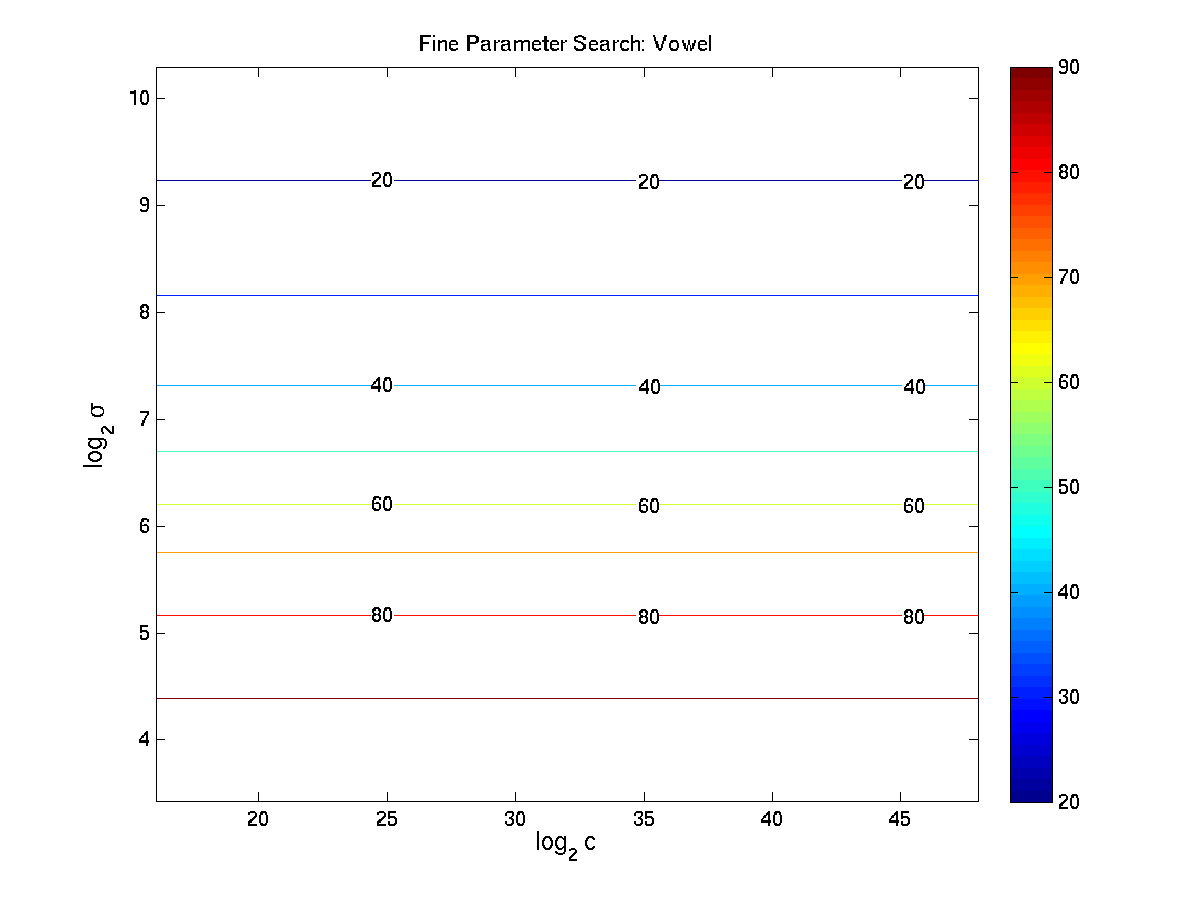
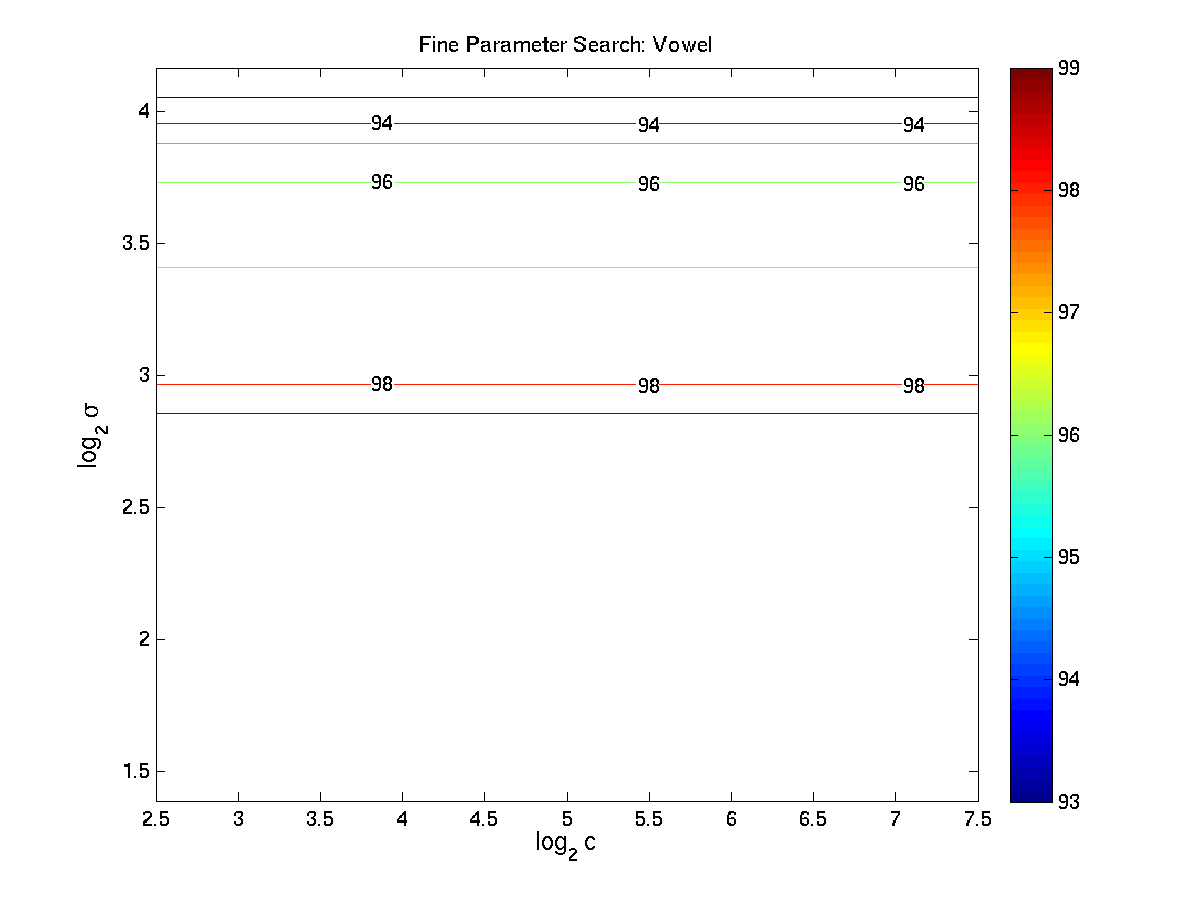
Fixed the bug in Part1

diff --git a/CS-528/Project4-SVM/Part1.m b/CS-528/Project4-SVM/Part1.m
@@ -4,13 +4,12 @@
 % Using LibSVM to find ideal C and gamma values
 SVMMatlabSetup
 ProjectSetup
-f = fopen('GridSearchOutput.txt','w');
+f = fopen('CoarseGridSearchOutput.dat','w');
 
 %% Corse Grid Search
 n  = 10;
-fprintf(f,'Coarse Grid Search with %d values\n',n^2);
-fprintf(f,'Coarse Grid Search\n');
-fprintf(f,'\t\t\tDataSet\t\t\t\tminC\tmaxC\tminG\tmaxGAccuracy\tg\t\tc\n');
+fprintf(f,'Data Set & $C_{min}$ & $C_{max}$ & $\\sigma_{min}$ & $\\sigma_{max}$ & $C$ & $\\sigma$ & $\\epsilon$ \\\\ \n');
+fprintf(f,'\\hline\n');
 c_coarse = zeros(size(dataSets));
 g_coarse = zeros(size(dataSets));
 i = 1;
@@ -26,8 +25,8 @@ for data = dataSets
   
     
     % Writing the values
-    fprintf(f,'%s\t%5.3e\t%5.3e\t%5.3e\t%5.3e\t%5.3e\t%5.3e\t%5.3e\n',...
-        setNames{i},min(c),max(c),min(g),max(g),cv,c_coarse(i),g_coarse(i));
+    fprintf(f,'%s & %3.2f & %3.2f & %3.2f & %3.2f & %3.2f & %3.2f & %3.2f \\\\ \n',...
+        setNames{i},min(c),max(c),min(g),max(g),c_coarse(i),g_coarse(i),cv);
     
     % Save the figure
     title(sprintf('Coarse Parameter Search: %s',setNames{i}));
@@ -36,14 +35,16 @@ for data = dataSets
     
     i = i + 1;
 end
+fclose(f);
 
 %% Fine Grid Search
+f = fopen('FineGridSearchOutput.dat','w');
 c_fine = zeros(size(dataSets));
 g_fine = zeros(size(dataSets));
 i = 1;
-n  = 10;
-fprintf(f,'\nFine Grid Search with %d values\n',n^2);
-fprintf(f,'\t\t\tDataSet\t\t\t\tminC\tmaxC\tminG\tmaxGAccuracy\tg\t\tc\n');
+n  = 20;
+fprintf(f,'Data Set & $C_{min}$ & $C_{max}$ & $\\sigma_{min}$ & $\\sigma_{max}$ & $C$ & $\\sigma$ & $\\epsilon$ \\\\ \n');
+fprintf(f,'\\hline\n');
 for data = dataSets
     fprintf(1,'Processing data set: %s\n',cell2mat(dataSets(i)));
     % Reading in the data
@@ -56,8 +57,9 @@ for data = dataSets
     [cv,c_fine(i),g_fine(i)] = gridParam(c,g,label,inst);
     
     % Writing the values
-    fprintf(f,'%s\t%5.3e\t%5.3e\t%5.3e\t%5.3e\t%5.3e\t%5.3e\t%5.3e\n',...
-        setNames{i},min(c),max(c),min(g),max(g),cv,c_fine(i),g_fine(i));
+
+    fprintf(f,'%s & %3.2f & %3.2f & %3.2f & %3.2f & %3.2f & %3.2f & %3.2f \\\\ \n',...
+        setNames{i},min(c),max(c),min(g),max(g),c_fine(i),g_fine(i),cv);
     
     % Save the figure
     title(sprintf('Fine Parameter Search: %s',setNames{i}));
@@ -65,6 +67,5 @@ for data = dataSets
     print(gcf,'-dpng',filename);
     i = i + 1;
 end
-
-%% Probably need to do validation
 fclose(f);
+%% Probably need to do validation

diff --git a/CS-528/Project4-SVM/writeup/Results.tex b/CS-528/Project4-SVM/writeup/Results.tex
@@ -6,29 +6,28 @@
 The parameter search for the optimal C and $\sigma$ parameters is shown in the contour plots of Figures \ref{fig:ParamLiver}, \ref{fig:ParamGlass} and \ref{fig:ParamGlass}.
 The optimal classifier parameters are shown for the coarse parameter search in Table \ref{tab:CoarseParamValues} and for the fine parameter search in Table \ref{tab:FineParamValues}.
 \todo{Make some quantifications and discuss the data}
-\begin{table}[ht!]
+\begin{table}[h!]
 \caption{Coarse Optimal Classifier Parameters}
 \label{tab:CoarseParamValues}
 \begin{tabular}{c c c c c c c c}
 \hline
-Data Set & $C_{min}$ & $C_{max}$ & $\sigma_{min}$ & $\sigma_{max}$ & $C$ & $\sigma$ & $\epsilon$ \\
+Data Set & $C_{min}$ & $C_{max}$ & $\sigma_{min}$ & $\sigma_{max}$ & $C$ & $\sigma$ & $\epsilon$ \\ 
 \hline
-Glass &	-5.0 &  5.0 &	-5.0 &	5.0 & 32.0 &	1.47 & 73 \\
-Liver &	-5.0 &	5.0 &	-5.0 &	5.0 & 14.8 &	0.146 & 74 \\
-Vowel &	-5.0 &	5.0 &	-5.0 &	5.0 & 32.0 &	6.85  & 99 \\
+Glass & -5.00 & 5.00 & -5.00 & 5.00 & 5.00 & 0.56 & 72.78 \\ 
+Liver & -5.00 & 5.00 & -5.00 & 5.00 & 3.89 & -2.78 & 74.33 \\ 
+Vowel & -5.00 & 5.00 & -5.00 & 5.00 & 5.00 & 2.78 & 99.24 \\ 
 \hline
 \end{tabular}
 \end{table}
-\begin{table}[ht!]
+\begin{table}[ht]
 \caption{Fine Optimal Classifier Parameters}
 \label{tab:FineParamValues}
 \begin{tabular}{c c c c c c c c}
+Data Set & $C_{min}$ & $C_{max}$ & $\sigma_{min}$ & $\sigma_{max}$ & $C$ & $\sigma$ & $\epsilon$ \\ 
 \hline
-Data Set & $C_{min}$ & $C_{max}$ & $\sigma_{min}$ & $\sigma_{max}$ & $C$ & $\sigma$ & $\epsilon$ \\
-\hline
-Glass & 16.0 &	48.0 &	0.735 & 2.20 & 2.815e+14	& 2.09 & 70.6 \\
-Liver & 7.41 &	22.2 &	0.0729 & 0.218 &	1.697e+02 &	1.11 & 68.0 \\
-Vowel & 16.0 &	48.0 & 3.43 & 10.3 &	2.815e+14 &	10.7 & 96.9 \\
+Glass & 2.50 & 7.50 & 0.28 & 0.83 & 6.71 & 0.31 & 75.00 \\ 
+Liver & 1.94 & 5.83 & -4.17 & -1.39 & 3.79 & -1.68 & 75.67 \\ 
+Vowel & 2.50 & 7.50 & 1.39 & 4.17 & 7.50 & 1.97 & 99.43 \\ 
 \hline
 \end{tabular}
 \end{table}

diff --git a/CS-528/Project4-SVM/writeup/murffer-Project4-Paper.tex b/CS-528/Project4-SVM/writeup/murffer-Project4-Paper.tex
@@ -61,9 +61,10 @@
 \usepackage{algorithm}
 \algnewcommand{\algorithmicgoto}{\textbf{go to}}%
 \algnewcommand{\Goto}[1]{\algorithmicgoto~\ref{#1}}
+
 % *** ALIGNMENT PACKAGES ***
 \usepackage{array}
-
+\usepackage{pgfplotstable}
 %%%%%%%%%%%%%%%%%%%%%%%%%%%%%%%%%%%%%%%%%%%%%%%%%%%%%%%%%%%%%%%%%%%%%%%%%%%%%%%%
 %                                                                              %
 %                               START OF DOCUMENT                              %

diff --git a/CS-528/Project4-SVM/gridParam.m b/CS-528/Project4-SVM/gridParam.m
@@ -28,7 +28,7 @@ for log2c = c,
     cv = svmtrain([],label, inst, cmd);     % Ignore the first argument (no weights)
     results(i,j) = cv;
     if (cv >= bestcv),
-      bestcv = cv; bestc = 2^log2c; bestg = 2^log2g;
+      bestcv = cv; bestc = log2c; bestg = log2g;
     end
   end
 end
